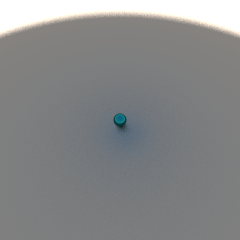
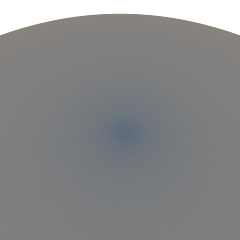
triangle intersection reset

Changed region(s): [[0.0, 0.0292, 1.0, 0.175], [0.4667, 0.4667, 0.525, 0.5542]]

diff --git a/Main.java b/Main.java
@@ -5,6 +5,7 @@ import Data.*;
 import Prims.*;
 
 public class Main {
+    public double epsilon = 0.0000001;
     public static void main(String args[]) throws IOException {
         World scene = new World();
 
@@ -13,7 +14,13 @@ public class Main {
         );
 
         scene.add(
-            new Sphere("ball", new Vec3(0, 0, 1), 0.5, new Glossy("mat2", new Vec3(0.2, 1, 1), 0.1))
+            new Mesh("mesh", new Tri[] {
+                new Tri(
+                    new Vec3(1, 3, 1),
+                    new Vec3(-1, 3, 1),
+                    new Vec3(0, 3, -1)
+                )
+            }, new Diffuse("mat2", new Vec3(0.5, 0.5, 1)))
         );
 
         Vec3 og = new Vec3(3, 10, -5);
@@ -21,7 +28,7 @@ public class Main {
 
         double dis = Vec3.distance(og, look);
 
-        Camera cam = new Camera(240, 240, og, look, 75, 1, 1, dis);
-        cam.render(128, 24, scene);
+        Camera cam = new Camera(240, 240, og, look, 75, 0, 1, dis);
+        cam.render(128, 4, scene);
     }
 }

diff --git a/Data/Tri.java b/Data/Tri.java
@@ -20,29 +20,6 @@ public class Tri {
     }
 
     public double intersect(Ray r) {
-        double den = Vec3.dot(N, r.direction());
-        if (Math.abs(den) < 0.001) return -1.0;
-
-        double d = Vec3.dot(N, A);
-        double t = (Vec3.dot(N, r.origin()) + d) / den;
-        if (t < 0) return -1;
-
-        Vec3 P = r.at(t);
-
-        Vec3 BA = Vec3.sub(B, A);
-        Vec3 CB = Vec3.sub(C, B);
-        Vec3 AC = Vec3.sub(A, C);
-
-        Vec3 C = Vec3.sub(P, A);
-        if (Vec3.dot(N, Vec3.cross(BA, C)) < 0) return -1.0;
-
-        C = Vec3.sub(P, B);
-        if (Vec3.dot(N, Vec3.cross(CB, C)) < 0) return -1.0;
-
-        C = Vec3.sub(P, C);
-        if (Vec3.dot(N, Vec3.cross(AC, C)) < 0) return -1.0;
-
-
-        return t;
+        return -1.0;
     }
 }
